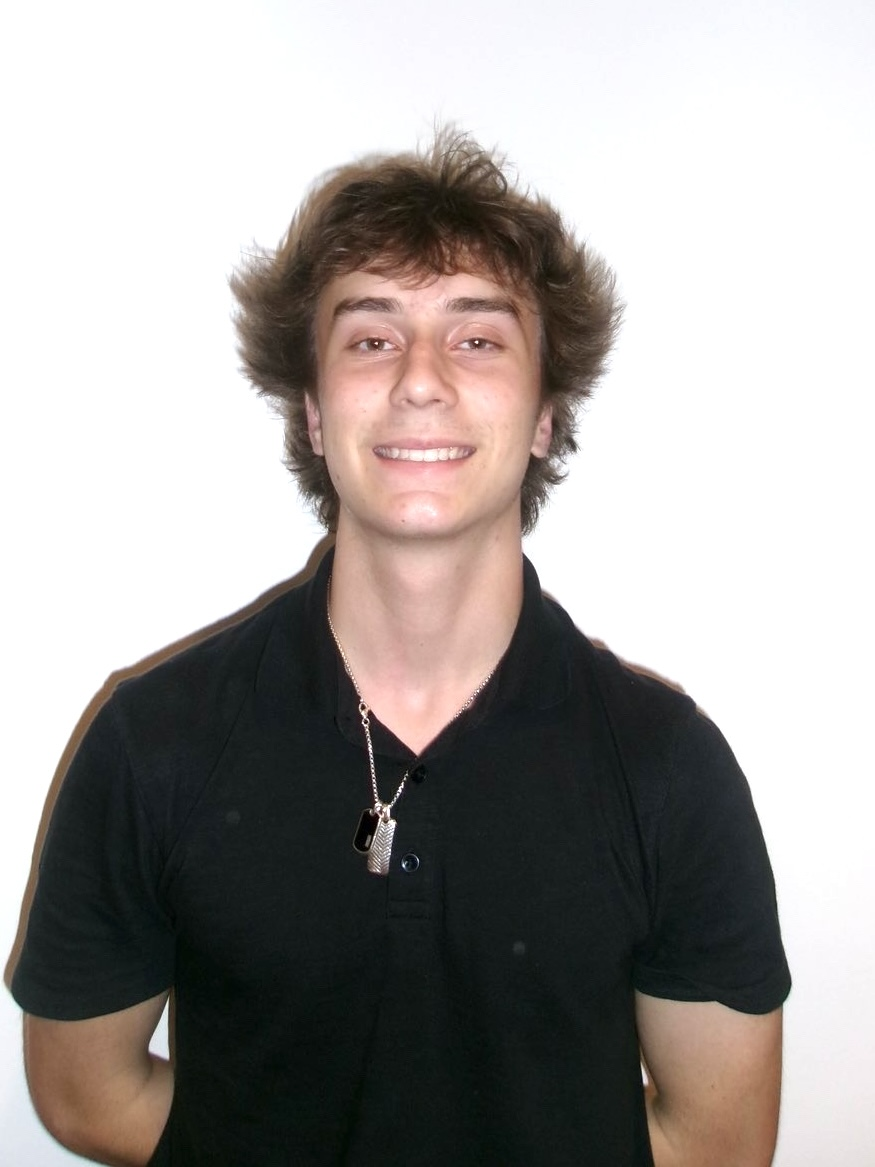
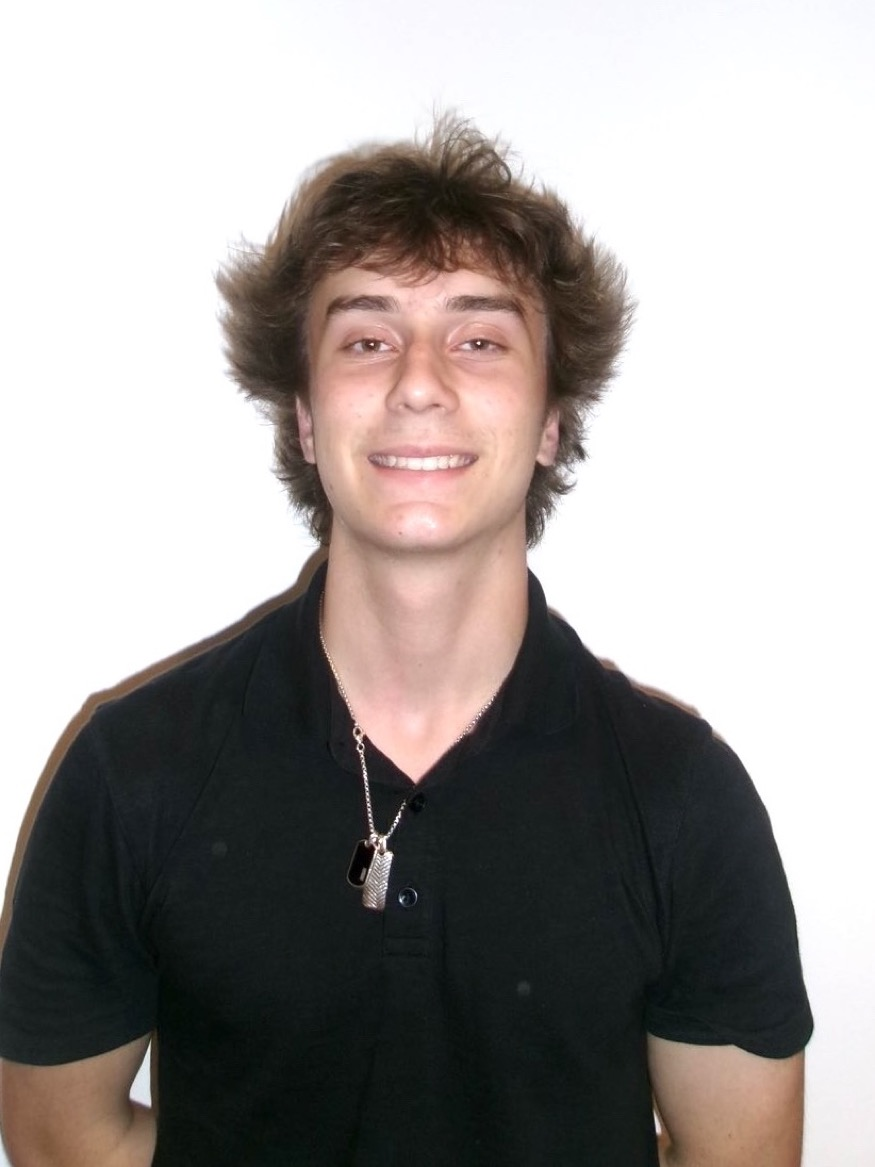
Outline member names faintly, zoom Santiago's photo slightly

diff --git a/src/components/MemberGrid.module.css b/src/components/MemberGrid.module.css
@@ -61,7 +61,13 @@
   color: #fff;
   font-size: 17px;
   font-weight: 700;
-  text-shadow: 0 1px 3px rgba(0, 0, 0, 0.6);
+  /* Very faint black outline so names stay readable on light photos. */
+  text-shadow:
+    -1px -1px 0 rgba(0, 0, 0, 0.35),
+    1px -1px 0 rgba(0, 0, 0, 0.35),
+    -1px 1px 0 rgba(0, 0, 0, 0.35),
+    1px 1px 0 rgba(0, 0, 0, 0.35),
+    0 1px 3px rgba(0, 0, 0, 0.6);
 }
 
 .info {
